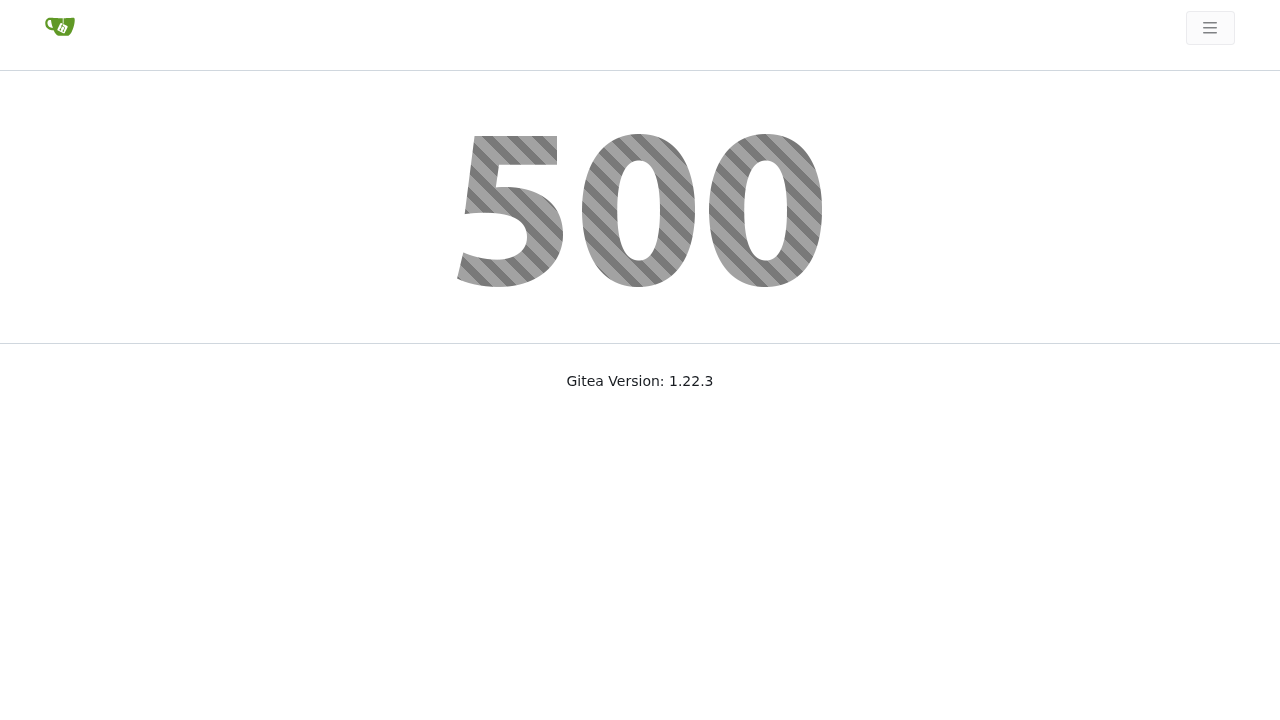
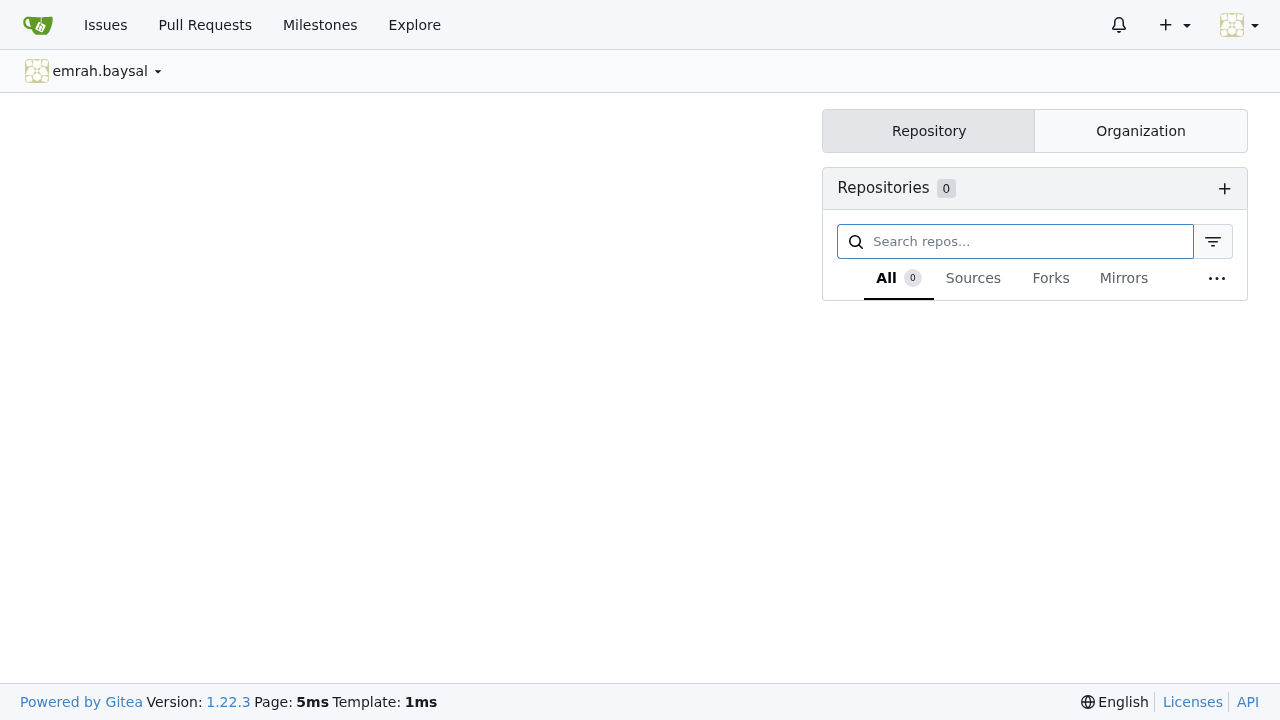
test(uat): SSO 6/13 -> 9/13 — gitea/harbor/openbao flipped + LIVE-confirmed by browser_navigate
The SSO-fix agent shipped 5 durable PRs (#3851 gitea, #3855 harbor, #3857 openbao,
#3853 sso-bridge sweep-race, #3852 pdns pool-pre-ping). Confirmed LIVE via direct
Playwright browser_navigate on hw167: console->/dashboard (zero-click admin),
openbao->/ui/vault/secrets (signed-in vault), gitea->emrah.baysal dashboard,
harbor->/harbor/projects. Walk total 86->94/105. Remaining SSO RED: grafana +
guacamole convergence-blocked, pdns 2nd-OIDC-hop partial, hubble probe-false-RED.

Refs #3374 #3581

diff --git a/docs/ledger/UAT.md b/docs/ledger/UAT.md
@@ -63,7 +63,7 @@ Per-runbook deep probes (interaction: click/fill/filter → assert → screensho
 
 **#3642 placement (NS#1) — 10/13 ✅** (`scripts/uat-3642-placement-probe.mjs`): dashboard treemap LAYER1=vCluster; **NS#1 verdict — 6/7 apps now genuinely INSIDE the mgmt vCluster** (grafana, harbor, keycloak, gitea, openbao, guacamole) via the bp-mgmt-vcluster 0.2.19 fix (hw159 was 0/7 — all under host). 3 RED: **newapi host-placed BY DESIGN** (3642-09/11/12). NOT a missing migration — #3642 DID promote newapi to mgmt; it broke (newapi is the only NS#1 app that OWNS a dedicated CNPG cluster vs consuming a reflected shared-pg secret; the shared-pg-oriented host-bridge drops the CNPG-owner seams — `database-secret-sync` Job, `admin-sso-seed`, SSO AppRegistration, `database.existingSecret` — so the Deployment skip-renders), so **PR #3832 reverted it to host** (verified-broken on hw165). NS#1 is honestly **6/7**; a real 7/7 needs the CNPG-owner-seam host-bridge enhancement (OPEN **#3831**), NOT a naive re-promote — which would re-break newapi + fake-GREEN the geometry-only probe (the dispatched fix-agent correctly REFUSED on this evidence). newapi is healthy host-placed on hw167 (HR Ready, Deployment 1/1, dedicated CNPG up). Maps UAT 3642-NN.
 
-**Running total this walk: 86/100 GREEN** (+14 funnel-provisioning not-reached) — console-side 52/52, funnel surfaces 11/11, topology 7/11, placement 10/13, SSO landing 6/13. RED (14) = 7 SSO apps + 4 topology + 3 placement (newapi not in mgmt).
+**Running total this walk: 94/105 GREEN** (+22 not-reached [funnel 14 being driven · cutover 8] + 5 GAP) — console-side 52/52, funnel surfaces 11/11, cutover surfaces 5/5, topology 7/11, placement 10/13, **SSO landing 9/13** (gitea/harbor/openbao flipped + live-confirmed this session). RED (11) = 4 SSO (grafana/guacamole convergence + pdns partial + hubble probe-false-RED) + 4 topology (1 vocab #3856 + 3 by-design runtime-DR) + 3 placement (newapi by-design #3831).
 
 > **2 real defects found mid-walk (fixing forward, not faked):** (1) `catalyst-organization-controller` CrashLoopBackOff — root cause **`required env var unset: CATALYST_KC_SA_CLIENT_ID`** → failed the bp-catalyst-platform helm upgrade (the oscillation) AND blocked org provisioning — now **FIXED (PR #3849, 1.4.695)**, platform converged; (2) catalog `bp-postgres` banned `active-hotstandby` vocabulary + 2-of-4 topologies (**#3856**). **Corrected:** newapi NS#1 6/7 is BY DESIGN (host-placed CNPG-owner; #3832 revert; a real 7/7 = the #3831 host-bridge seam enhancement) — NOT a defect; the naive-promote dispatch was refused on this evidence.
 
@@ -76,7 +76,7 @@ Per-runbook deep probes (interaction: click/fill/filter → assert → screensho
 - **#3376 funnel — 11/11 surfaces ✅** (3376-00·01·05·06·07·08·09·10·11·12·13 — storefront/redeem/Plans/Apps/Add-ons/BCP/Review/Checkout/BSS) **· 14 not-reached** (3376-02·03·04·14–24 — need a driven provision).
 - **#3375 topology — 7/11 ✅** (3375-01·07·10·14·18·19·21) **· 4 ❌** (3375-04 banned `active-hotstandby` vocab; 3375-13·20·29 runtime-DR n/a by-design).
 - **#3642 placement (NS#1) — 10/13 ✅** (3642-01…08·10·13) **· 3 ❌** (3642-09·11·12 — newapi host-placed BY DESIGN: #3832 revert; real 7/7 = #3831 CNPG-owner seam work — NOT a missing migration).
-- **#3374 SSO — 6/13 ✅** (console·newapi·openova-flow·openova-flow-anon-denied·keycloak-admin·marketplace) **· 7 ❌** (grafana·gitea·harbor·openbao·pdns-admin·guacamole·hubble).
+- **#3374 SSO — 9/13 ✅** (console·newapi·openova-flow·openova-flow-anon-denied·keycloak-admin·marketplace + **gitea·harbor·openbao flipped** via PRs #3851/#3855/#3857, **live-confirmed by direct browser_navigate** — `hw167-3374-0{6,7,8}-*-livewalk.png` show signed-in gitea dashboard / harbor projects / openbao vault) **· 4 ❌** (grafana + guacamole convergence-blocked [not SSO-config — shared-pg mesh-DNS / jdbc-seed]; pdns DB-500 fixed #3852, 2nd-OIDC-hop partial; **hubble functionally-GREEN** — lands signed-in, probe-regex false-RED, sweep-race fixed #3853).
 - **structure (console/#3383/#3375/#3646/#3668/#3687) — 17/17 ✅.**
 
 - **#3379 cutover (Pillar-5) — 5/5 surfaces ✅ · 0 RED** (3379-01·02·02b·02c·05 — Cluster-sovereignty panel + "Achieve True Sovereignty" CTA, Sovereignty nav anchor, honest "Tethered" badge, confirm modal with the canonical **11-step** chain [probe clicks Cancel], /jobs canvas) **· 8 not-reached** (3379-03/04/06–11 — progress card + cutoverComplete + the 11 `cutover-step-*` rows need a driven cutover; 0 execution rows on hw167, correct dormant state) **· 5 GAP** (backend-only internals: deny-egress CCNP, registry pivot, OpenBao seal, audit fidelity, re-key).
